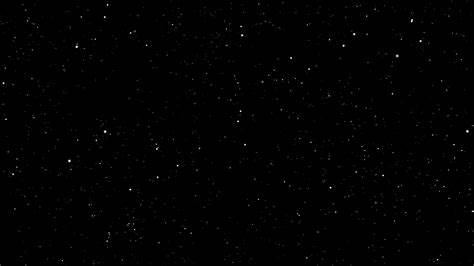
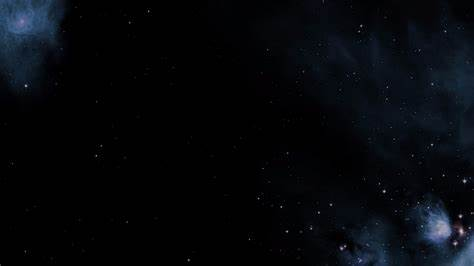
setted the images in the game

diff --git a/main.py b/main.py
@@ -3,20 +3,46 @@ import pygame
 import os
 
 CWD = os.getcwd()
-
 WIDTH, HEIGHT = 1200, 700
 WIN = pygame.display.set_mode((WIDTH, HEIGHT))
+WHITE = (255,255,255)
 
 pygame.display.set_caption("Spaceship Battles⚔")
 pygame_icon = pygame.image.load(os.path.join(CWD, 'Assets', 'img', 'red_spaceship.png'))
 pygame.display.set_icon(pygame_icon)
 
+FPS = 60
+SPACESHIP_WIDTH, SPACESHIP_HEIGHT = 55, 70
+RED_SPACESHIP_IMAGE = pygame.image.load(os.path.join(CWD, 'Assets', 'img', 'red_spaceship.png'))
+RED_SPACESHIP = pygame.transform.rotate(pygame.transform.scale(RED_SPACESHIP_IMAGE, (SPACESHIP_WIDTH, SPACESHIP_HEIGHT)), 270)
+GREEN_SPACESHIP_IMAGE = pygame.image.load(os.path.join(CWD, 'Assets', 'img', 'green_spaceship.png'))
+GREEN_SPACESHIP = pygame.transform.rotate(pygame.transform.scale(GREEN_SPACESHIP_IMAGE, (SPACESHIP_WIDTH, SPACESHIP_HEIGHT)), 90)
+SPACE_IMG = pygame.transform.scale(pygame.image.load(os.path.join(CWD, 'Assets', 'img', 'space.jpg')), (WIDTH, HEIGHT))
+
+
+
+
+def display_window(red, green):
+    # WIN.fill(WHITE)
+    WIN.blit(SPACE_IMG, (0,0))
+    WIN.blit(RED_SPACESHIP, (red.x, red.y))
+    WIN.blit(GREEN_SPACESHIP, (green.x, green.y))
+    pygame.display.update()
+
+
 def start_game():
+    red = pygame.Rect(100, HEIGHT//2, SPACESHIP_WIDTH, SPACESHIP_HEIGHT)
+    green = pygame.Rect(WIDTH-100-SPACESHIP_WIDTH, HEIGHT//2, SPACESHIP_WIDTH, SPACESHIP_HEIGHT)
+    clock = pygame.time.Clock()
     run = True
     while run:
+        clock.tick(FPS)
         for event in pygame.event.get():
             if event.type==pygame.QUIT:
                 run = False
+        
+        # red.x += 5
+        display_window(red, green)
 
     pygame.quit()
 
